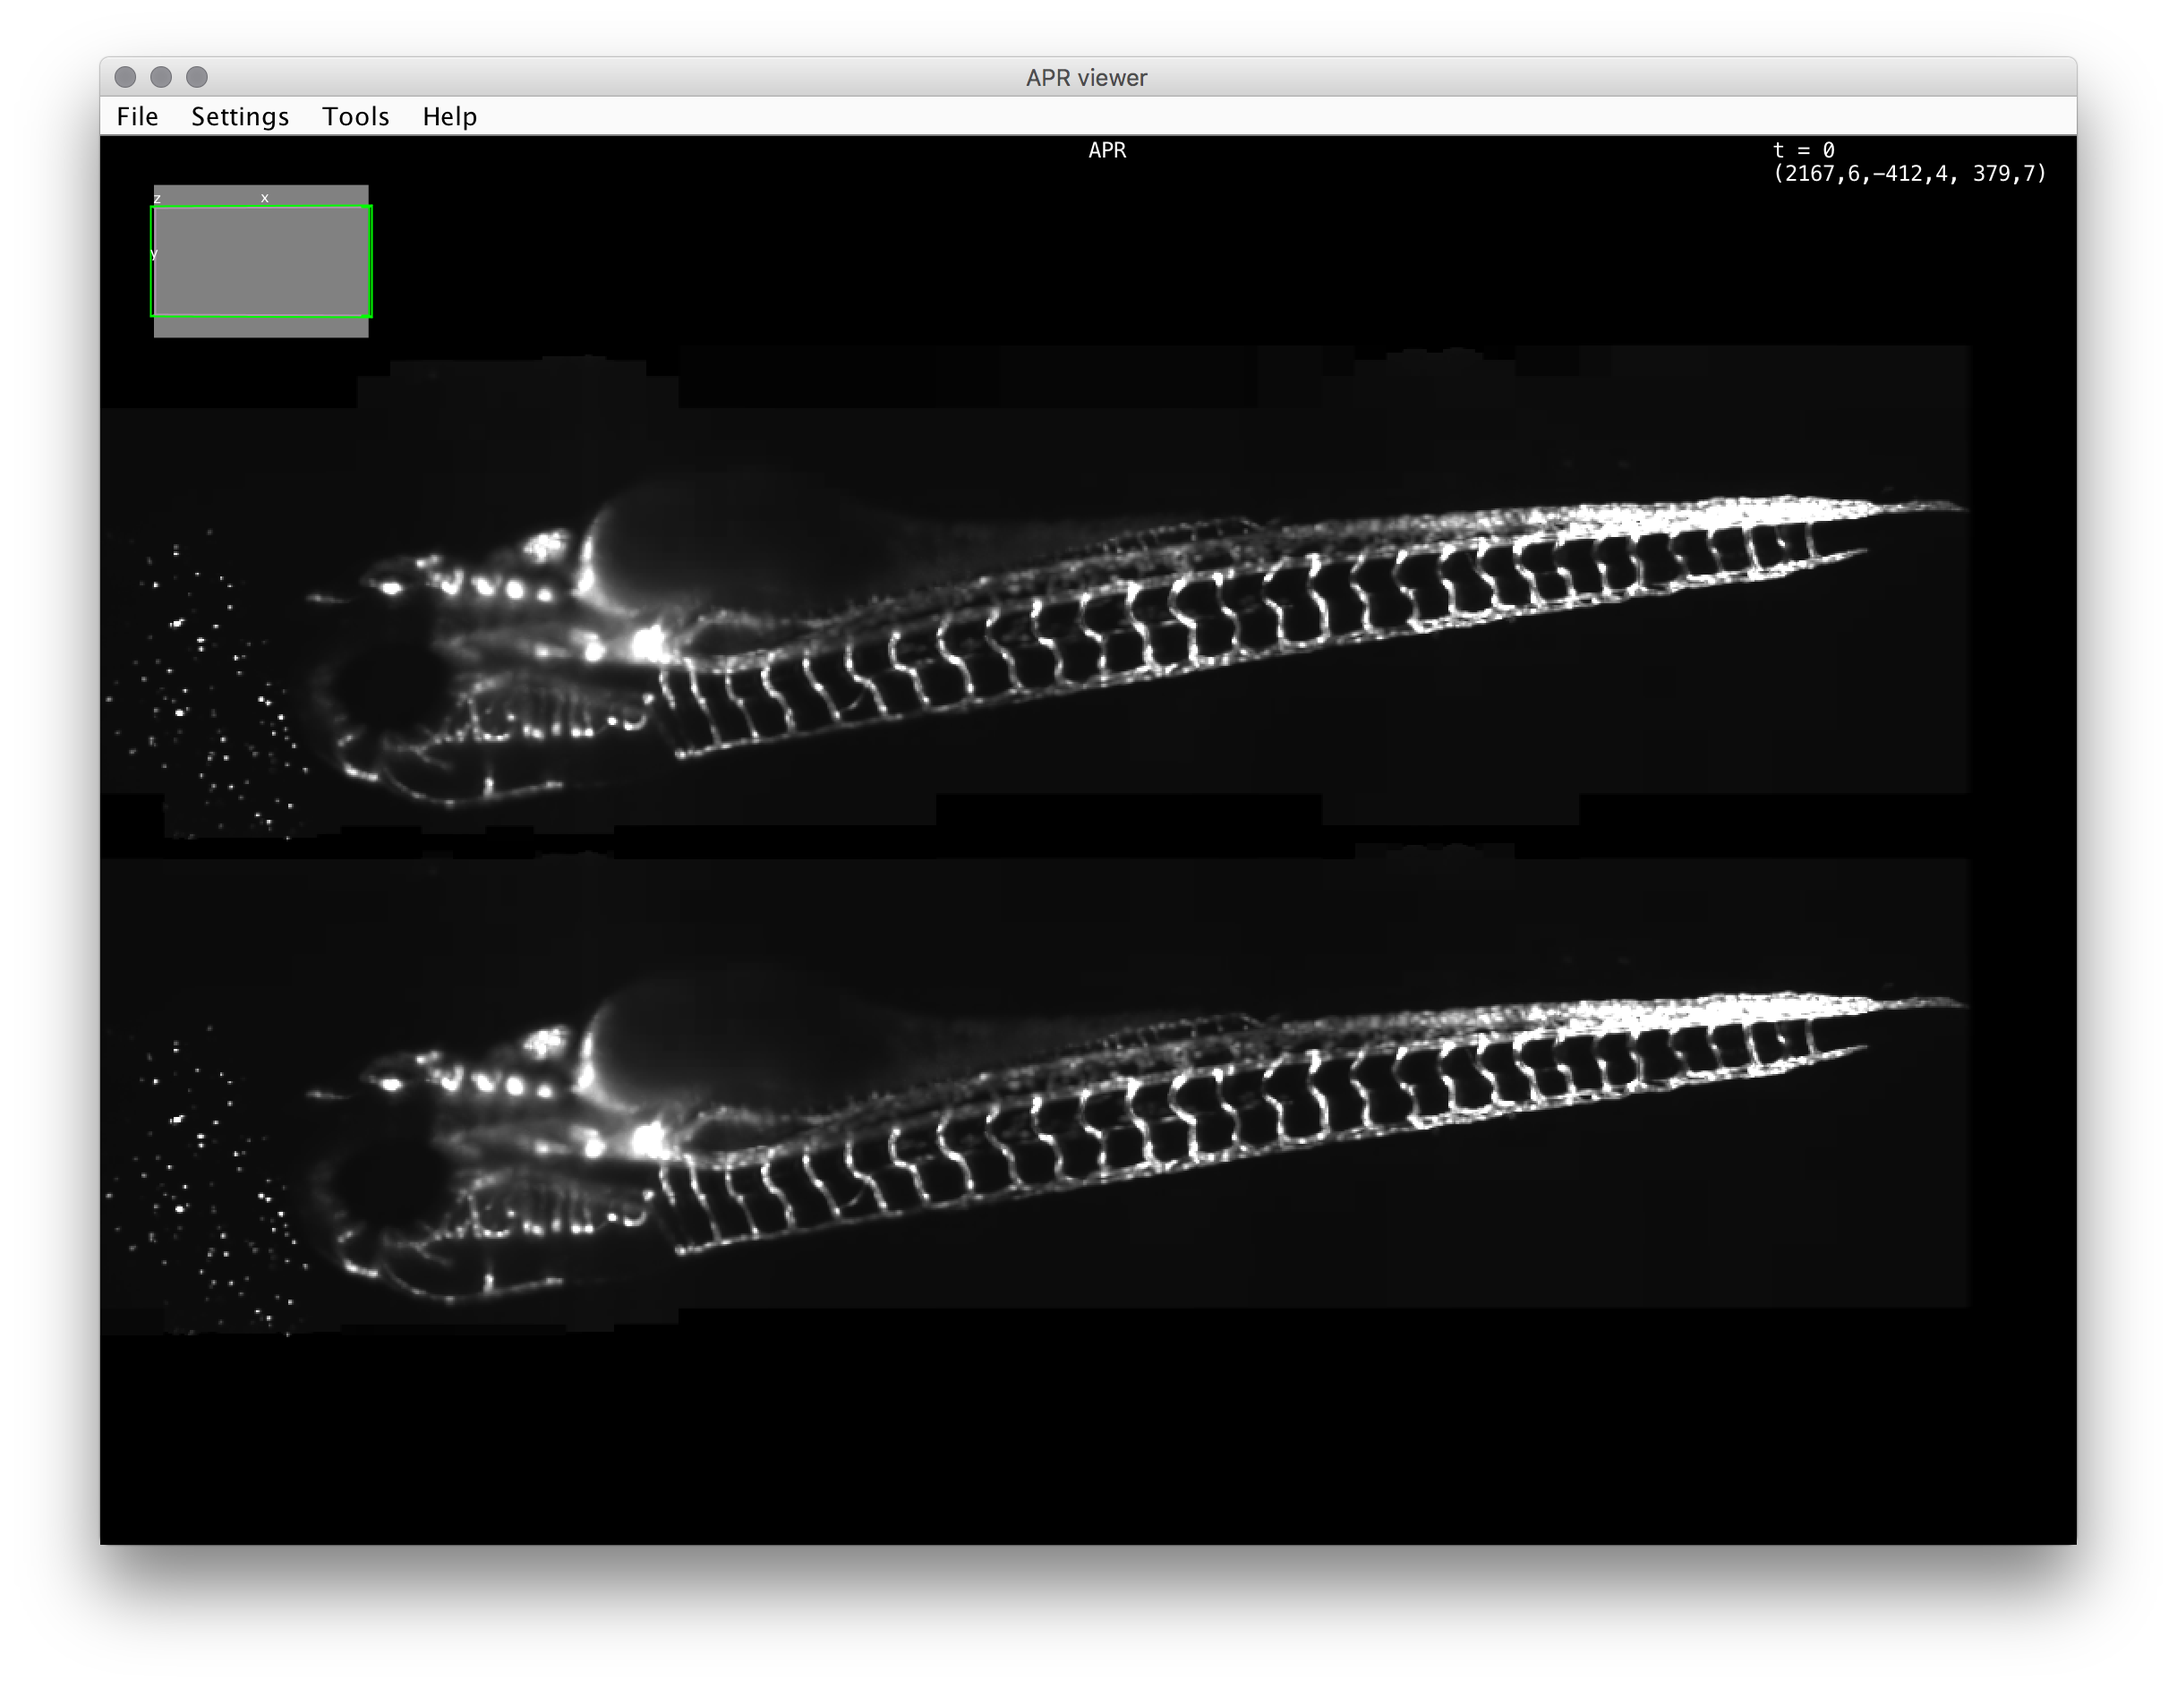
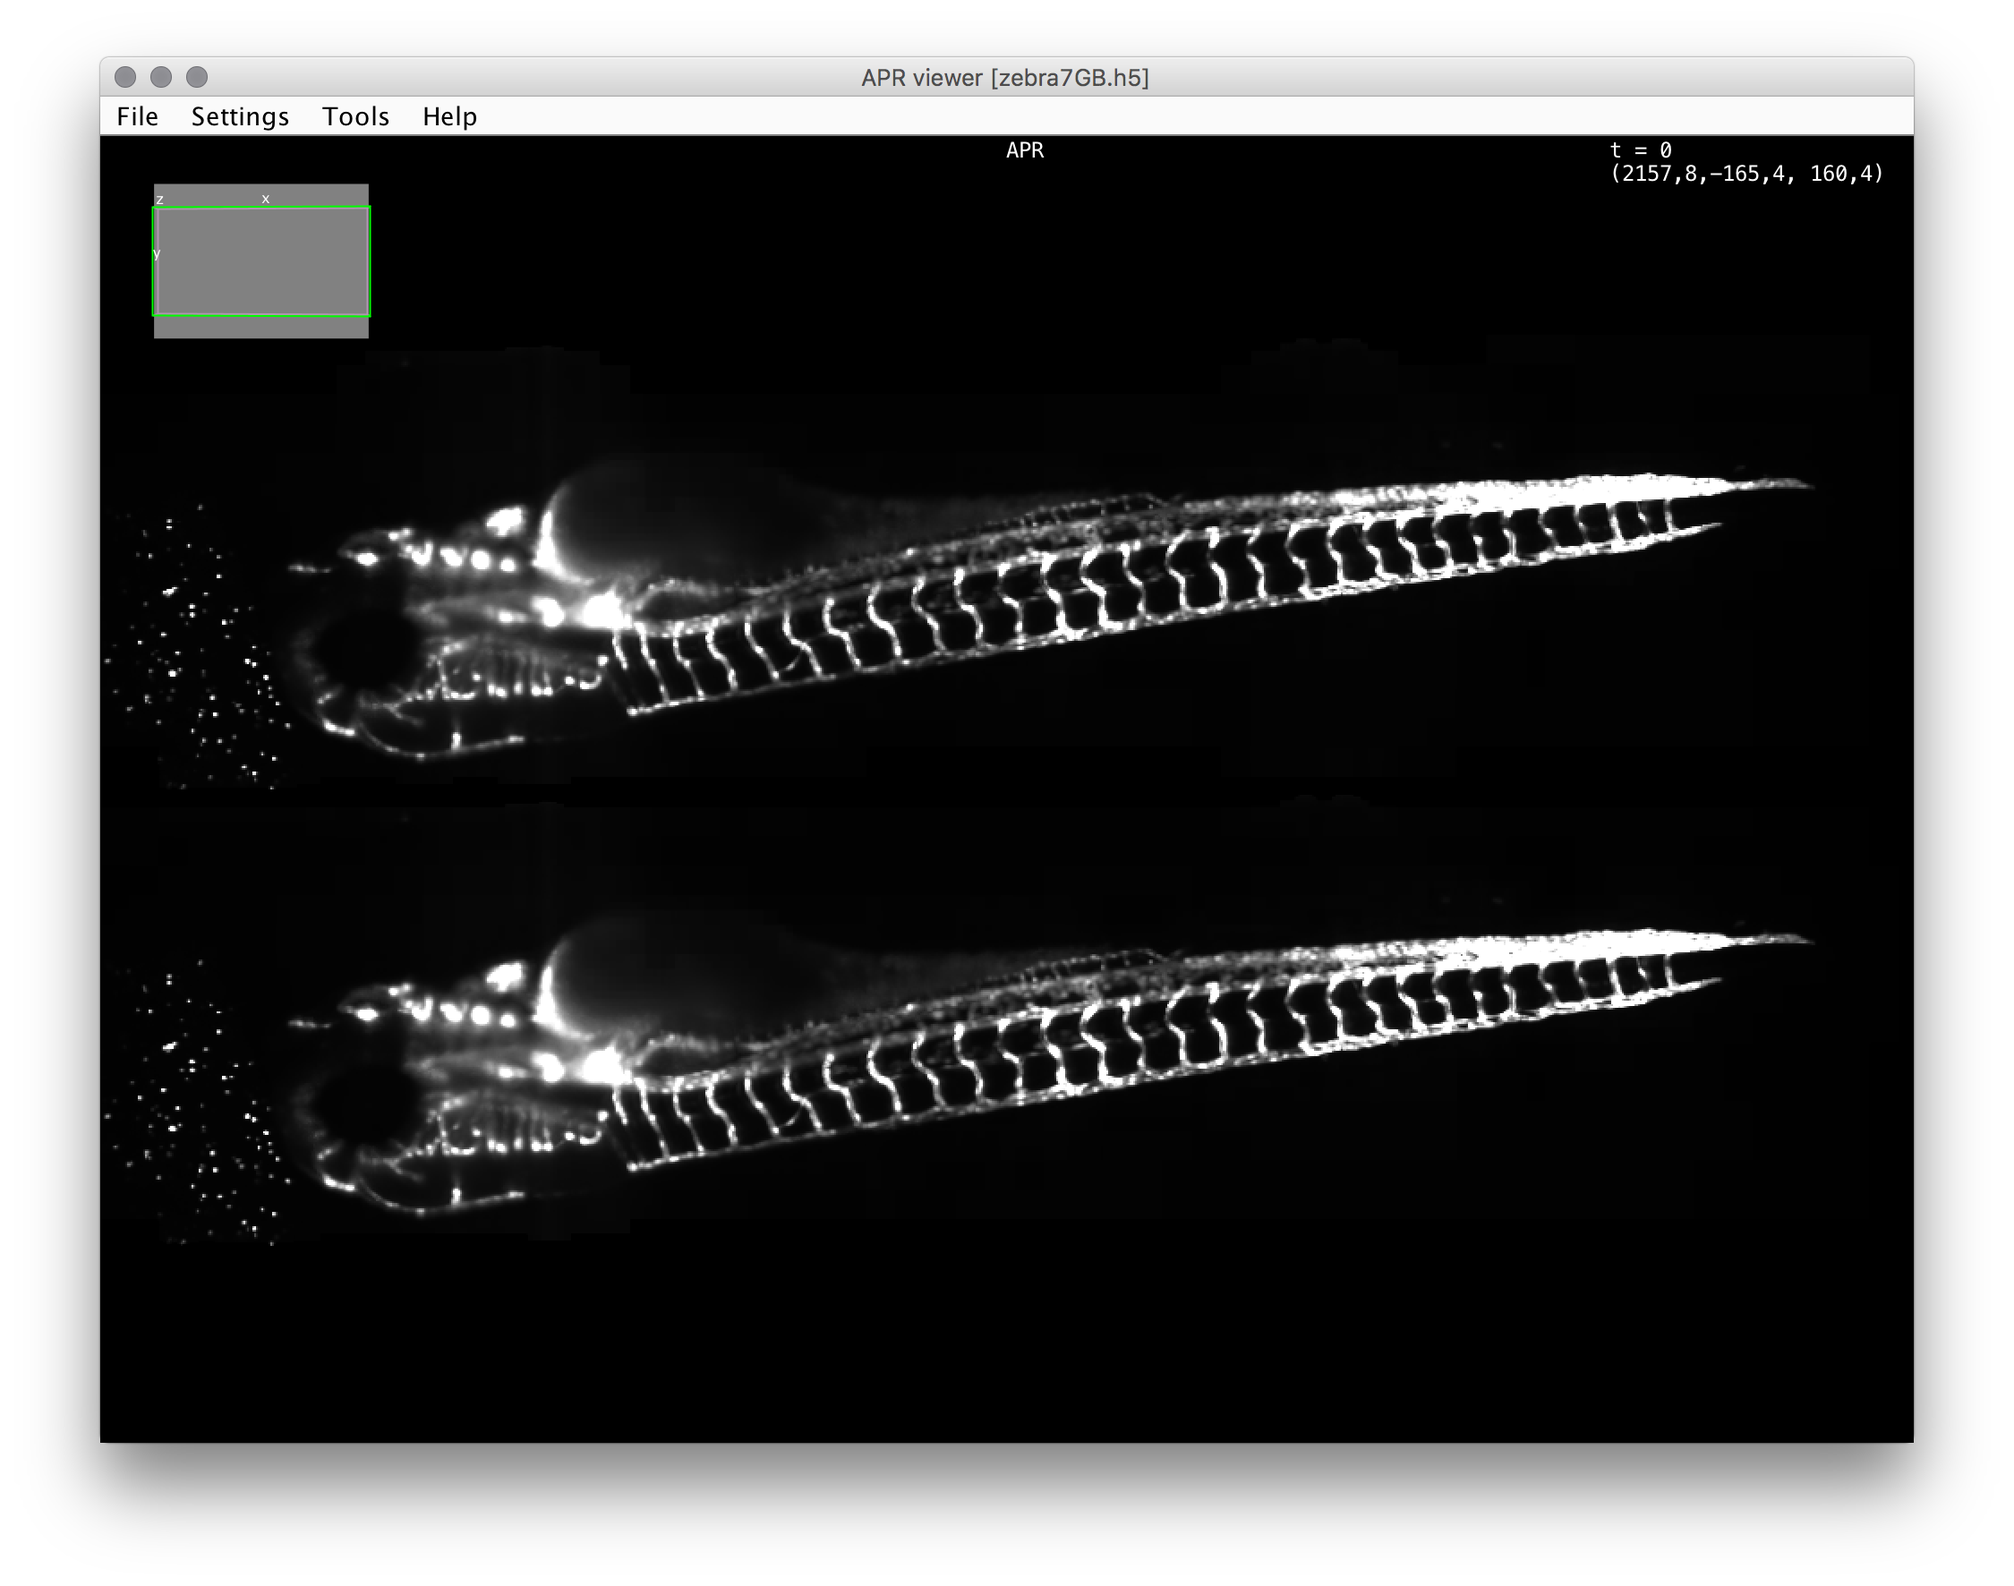
Added filename info in viewer window

diff --git a/AprViewer/src/main/java/krzysg/AprViewer.java b/AprViewer/src/main/java/krzysg/AprViewer.java
@@ -70,6 +70,6 @@ public class AprViewer {
 		final SpimDataMinimal spimData = new SpimDataMinimal( basePath, seq, new ViewRegistrations(registrations) );
 
         // ------------ Run BDV ----------------------------------
-        BdvFunctions.show(spimData, Bdv.options().frameTitle("APR viewer"));
+        BdvFunctions.show(spimData, Bdv.options().frameTitle("APR viewer [" + inputFile.getName() + "]"));
     }
 }
